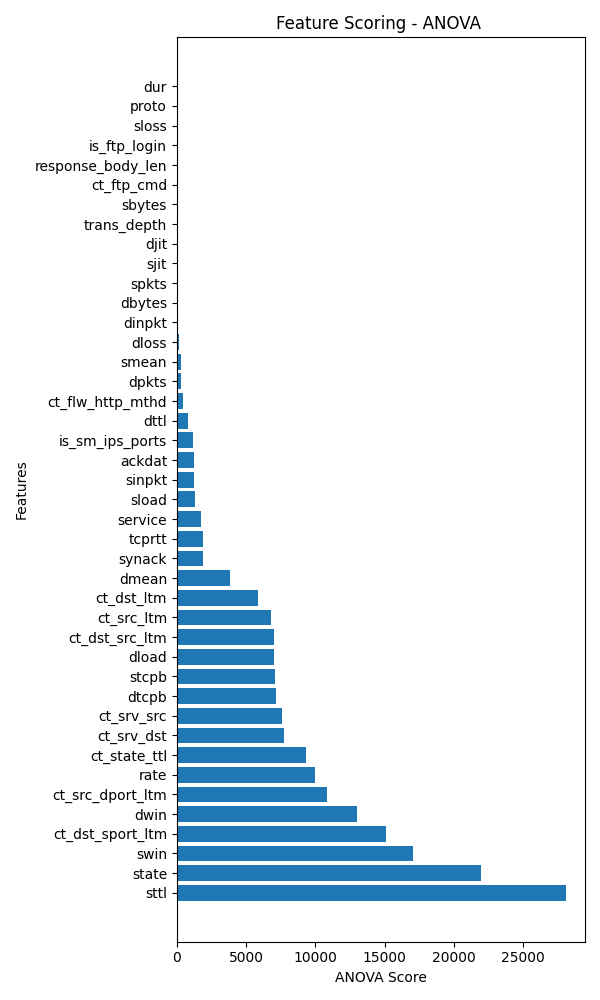
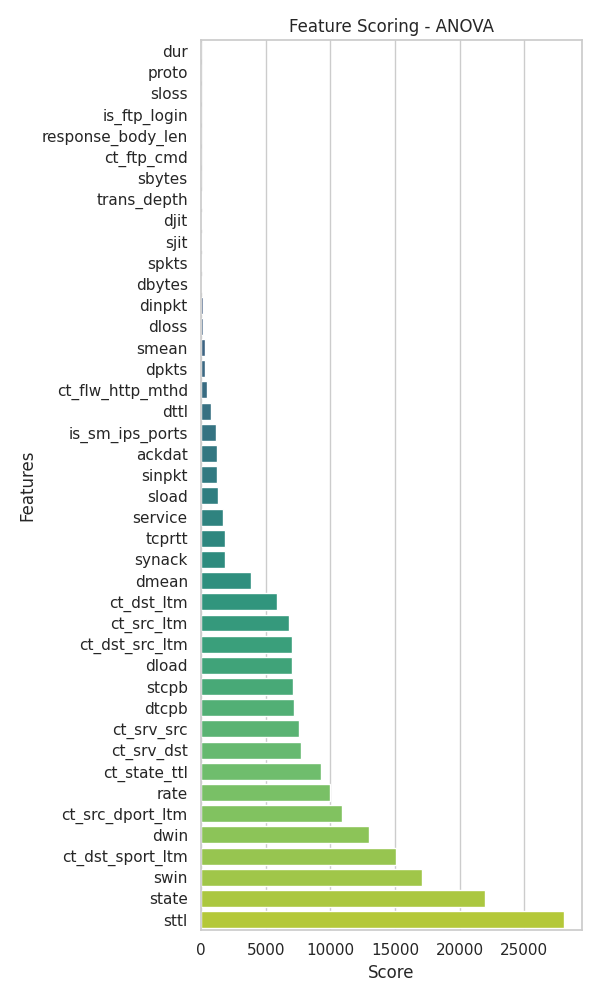
Building out models

diff --git a/src/run.py b/src/run.py
@@ -1,7 +1,11 @@
 import pandas as pd
+import numpy as np
 from pathlib import Path
-from plot import plot_feature_scores
-from model import build_pipelines, select_k_best
+from plot import plot_feature_scores, plot_heatmap, plot_bar, plot_roc_curve
+from model import build_pipelines, select_k_best, fit_model, validate_model
+from sklearn.naive_bayes import GaussianNB
+from sklearn.preprocessing import StandardScaler
+from sklearn.ensemble import RandomForestClassifier
 from sklearn.linear_model import LogisticRegression
 from sklearn.neighbors import KNeighborsClassifier
 from sklearn.tree import DecisionTreeClassifier
@@ -34,28 +38,50 @@ for ds in (ds_train_X, ds_test_X):
         ds[column] = ds[column].astype('category')
         ds[column] = ds[column].cat.codes
 
+# Select best features
+best = select_k_best(ds_train_X, ds_train_y, 15)
+
+# Remove reduntant
+ds_test_X = ds_test_X.iloc[:,best['columns']]
+ds_train_X = ds_train_X.iloc[:,best['columns']]
+
 # Define algorithms
 algos = {
     'Logistic Regression': LogisticRegression(n_jobs=-1, max_iter=5000),
     'Decision Tree Classifier': DecisionTreeClassifier(),
-    'K-Nearest Neighbor': KNeighborsClassifier(n_jobs=-1)
+    'K-Nearest Neighbor': KNeighborsClassifier(n_jobs=-1),
+    'Random Forest': RandomForestClassifier(),
+    'Naive Bayes': GaussianNB()
 }
 
 # Create models
 models = build_pipelines(algos)
 
-# Select best features
-best = select_k_best(ds_train_X, ds_train_y, 10)
-
-# Plot feature scores
+# Fit and score models
 scores = pd.DataFrame(
-    {
-        'features': ds_test_X.columns,
-        'scores': best['scores']
-    }
+    index=[],
+    columns=[
+        'Loss',
+        'Accuracy',
+        'Precision',
+        'Recall',
+        'F1',
+        'False Positive',
+        'True Positive'
+    ]
 )
-plot_feature_scores(scores.sort_values('scores', ascending=False))
-
-# Remove reduntant
-ds_test_X = ds_test_X.iloc[:,best['columns']]
-ds_train_X = ds_train_X.iloc[:,best['columns']]
+for algo in models:
+    model = models[algo]
+    fit = fit_model(model, ds_train_X, ds_train_y)
+    val = validate_model(fit, ds_test_X, ds_test_y)
+    row = [
+        val['loss'],
+        val['accuracy'],
+        val['precision'],
+        val['recall'],
+        val['f1'],
+        val['roc']['fp'],
+        val['roc']['tp']
+    ]
+    scores.loc[algo] = row
+plot_bar(scores)

diff --git a/src/plot.py b/src/plot.py
@@ -1,12 +1,48 @@
 import pandas as pd
 import matplotlib.pyplot as plt
+import seaborn as sns
 from model import select_k_best, fit_model, validate_model
 
+sns.set_theme(style='whitegrid')
+
 def plot_feature_scores(data):
+    plt.clf()
     plt.figure(figsize=(6,10))
-    plt.barh('features', 'scores', data=data)
-    plt.title('Feature Scoring - ANOVA ')
-    plt.xlabel('ANOVA Score')
+    sns.barplot(x='scores', y='features', data=data, palette=sns.color_palette('viridis', n_colors=45))
+    plt.title('Feature Scoring - ANOVA')
+    plt.xlabel('Score')
     plt.ylabel('Features')
     plt.tight_layout()
     plt.savefig('../assets/images/feature_scores.png')
+
+def plot_heatmap(data):
+    plt.clf()
+    plt.figure(figsize=(8,6))
+    sns.heatmap(data)
+    plt.title('Correlation Matrix - Pearson')
+    plt.tight_layout()
+    plt.savefig('../assets/images/correlation_matrix_test.png')
+
+def plot_bar(data):
+    plt.clf()
+    fig, (ax1, ax2)=plt.subplots(1,2, figsize=(20, 6))
+    palette=sns.color_palette('muted', n_colors=len(data.index))
+    sns.barplot(data=data, x=data.index, y='Loss', palette=palette, ax=ax1)
+    ax1.title.set_text('Test Data Prediction - Loss')
+    sns.barplot(data=data, x=data.index, y='Accuracy', palette=palette, ax=ax2)
+    ax2.title.set_text('Test Data Prediction - Accuracy')
+    plt.tight_layout()
+    plt.savefig('../assets/images/box_plot_loss.png')
+
+def plot_roc_curve(data):
+    plt.clf()
+    plt.figure(figsize=(8,6))
+    palette=sns.color_palette('muted', n_colors=len(data.index))
+    i=0
+    for algo in data.index:
+        sns.lineplot(data=data.loc[algo], x='False Positive', y='True Positive', color=palette[i], label=algo)
+        i+=1
+    plt.legend()
+    plt.title('Receiver Operating Characteristic (ROC)')
+    plt.tight_layout()
+    plt.savefig('../assets/images/roc_curve.png')

diff --git a/src/model.py b/src/model.py
@@ -10,7 +10,7 @@ from sklearn.tree import DecisionTreeClassifier
 from sklearn.svm import SVC
 from sklearn.neighbors import KNeighborsClassifier
 from sklearn.linear_model import LogisticRegression
-from sklearn.metrics import log_loss, accuracy_score, precision_score, recall_score, confusion_matrix, auc, f1_score
+from sklearn.metrics import log_loss, accuracy_score, precision_score, recall_score, confusion_matrix, roc_curve, f1_score, RocCurveDisplay
 
 # Fit model
 def fit_model(model, X, y):
@@ -19,13 +19,21 @@ def fit_model(model, X, y):
 # Predict model and score using loss, accuracy, precision, recall, f1
 def validate_model(model, X, y):
     y_pred = model.predict(X)
+    prob = model.predict_proba(X)
+    pred = prob[:,1]
+    fp, tp, _ = roc_curve(y, pred)
+    print(fp)
     score = {
         'loss': np.round(log_loss(y, y_pred), 2),
         'accuracy': np.round(accuracy_score(y, y_pred), 2),
         'precision': np.round(precision_score(y, y_pred), 2),
         'recall': np.round(recall_score(y, y_pred), 2),
         'f1': np.round(f1_score(y, y_pred), 2),
-        'matrix': np.round(confusion_matrix(y, y_pred), 2)
+        'roc': {
+            'fp': fp,
+            'tp': tp
+        },
+        'matrix': confusion_matrix(y, y_pred)
     }
     return score
 
